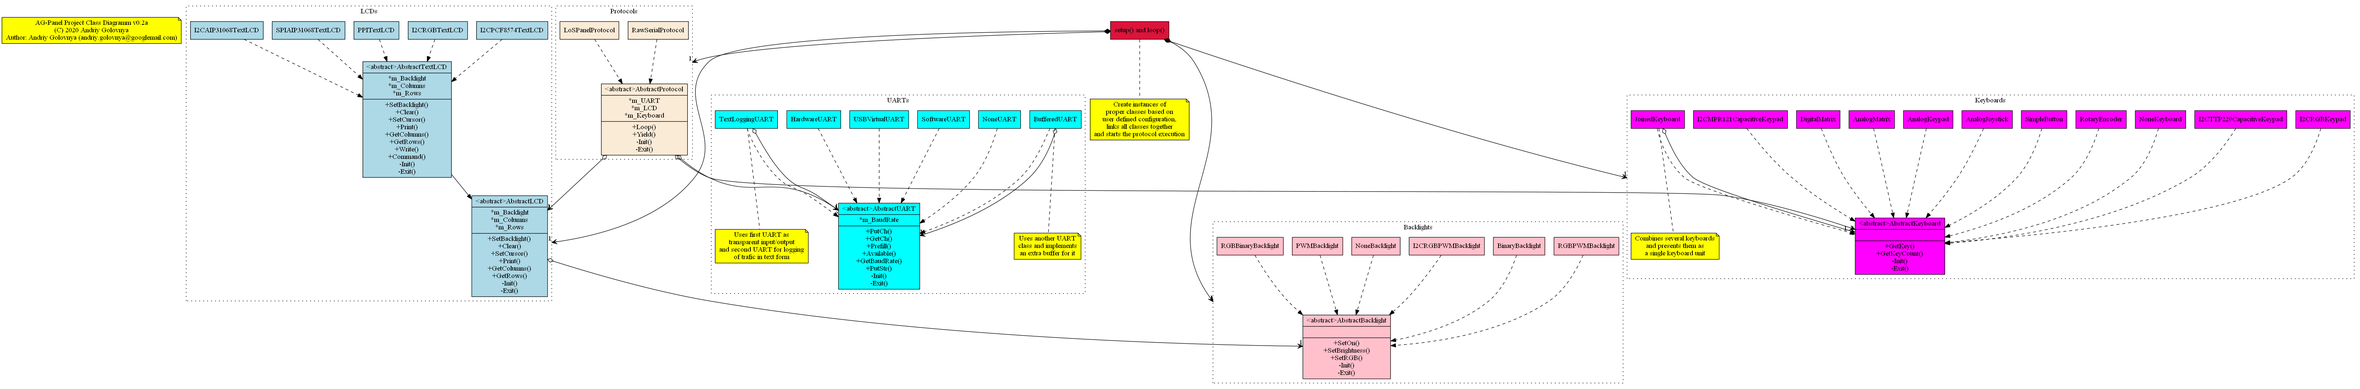
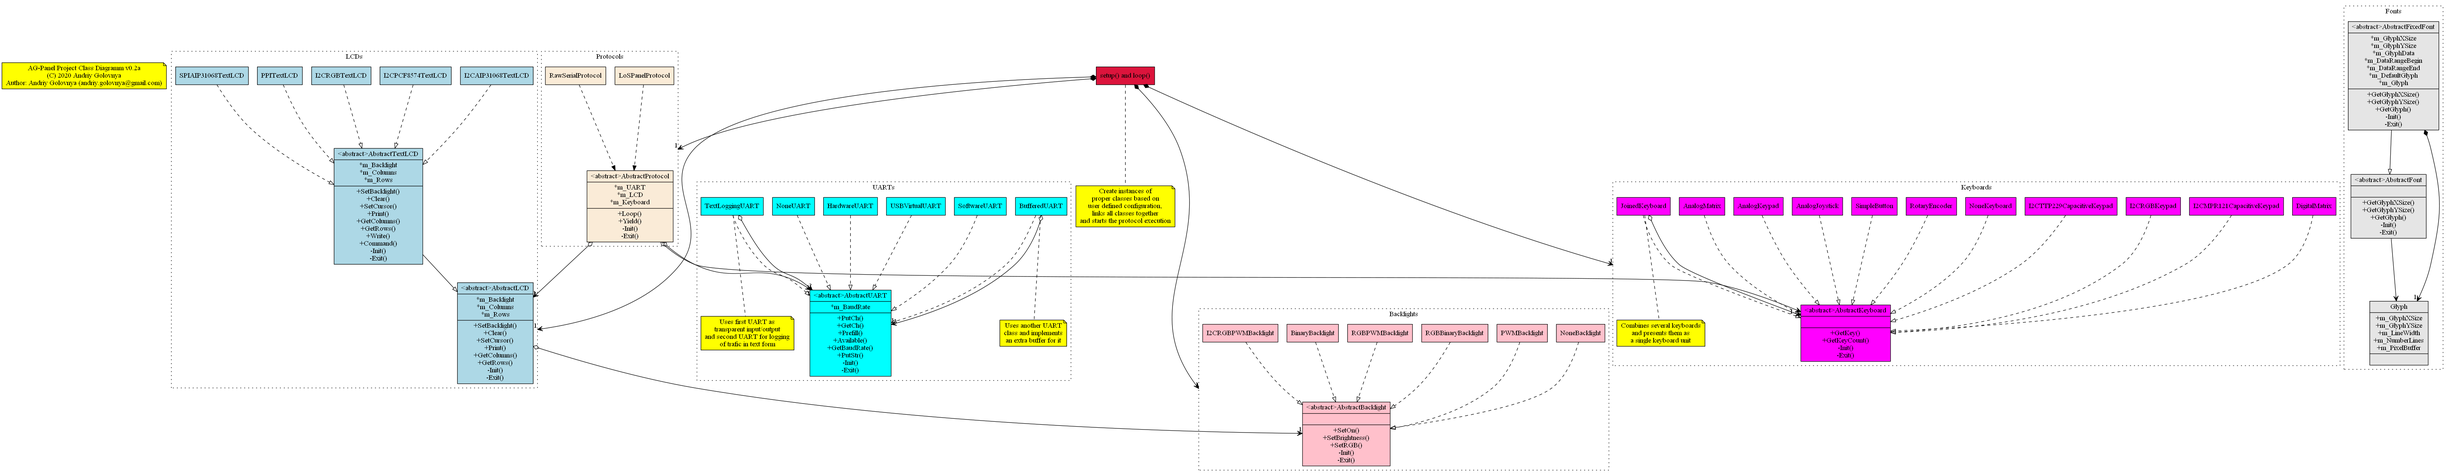
Add Font group to Dot UML diagram. Corrected realization arrows.

diff --git a/README.md b/README.md
@@ -71,7 +71,7 @@ Basic class diagram is shown below:
 
 ![UML diagram generated from DOT below](/img/class_diagram.png)
 
-[UML diagram online on magjac.com](http://magjac.com/graphviz-visual-editor/?dot=digraph%20class_diagram%20%7B%0A%0A%20%20%20%20node%20%5B%0A%20%20%20%20%20%20%20%20shape%20%3D%20record%0A%20%20%20%20%5D%0A%20%20%20%20compound%20%3D%20true%0A%0A%20%20%20%20%2F%2A%20Header%20with%20version%20information%20%2A%2F%0A%20%20%20%20main_note%20%5B%0A%20%20%20%20%20%20%20%20shape%20%3D%20note%0A%20%20%20%20%20%20%20%20style%20%3D%20filled%0A%20%20%20%20%20%20%20%20fillcolor%20%3D%20yellow%0A%20%20%20%20%20%20%20%20label%20%3D%20%22AG-Panel%20Project%20Class%20Diagramm%20v0.2a%5Cn%28C%29%202020%20Andriy%20Golovnya%5CnAuthor%3A%20Andriy%20Golovnya%20%28andriy.golovnya%40gmail.com%29%22%0A%20%20%20%20%5D%0A%0A%20%20%20%20%2F%2A%20Backlights%20group%20of%20classes%20%2A%2F%0A%20%20%20%20subgraph%20cluster_backlights%20%7B%0A%20%20%20%20%20%20%20%20node%20%5B%0A%20%20%20%20%20%20%20%20%20%20%20%20style%20%3D%20filled%0A%20%20%20%20%20%20%20%20%20%20%20%20fillcolor%20%3D%20%22pink%22%0A%20%20%20%20%20%20%20%20%5D%0A%20%20%20%20%20%20%20%20style%20%3D%20dotted%0A%20%20%20%20%20%20%20%20label%20%3D%20%22Backlights%22%0A%20%20%20%20%20%20%20%20AbstractBacklight%20%5B%0A%20%20%20%20%20%20%20%20%20%20%20%20label%20%3D%20%22%7B%5C%3Cabstract%5C%3EAbstractBacklight%7C%7C%2BSetOn%28%29%5Cn%2BSetBrightness%28%29%5Cn%2BSetRGB%28%29%5Cn-Init%28%29%5Cn-Exit%28%29%7D%22%0A%20%20%20%20%20%20%20%20%5D%0A%20%20%20%20%20%20%20%20BinaryBacklight%20-%3E%20AbstractBacklight%20%5Bstyle%20%3D%20dashed%5D%0A%20%20%20%20%20%20%20%20I2CRGBPWMBacklight%20-%3E%20AbstractBacklight%20%5Bstyle%20%3D%20dashed%5D%0A%20%20%20%20%20%20%20%20NoneBacklight%20-%3E%20AbstractBacklight%20%5Bstyle%20%3D%20dashed%5D%0A%20%20%20%20%20%20%20%20PWMBacklight%20-%3E%20AbstractBacklight%20%5Bstyle%20%3D%20dashed%5D%0A%20%20%20%20%20%20%20%20RGBBinaryBacklight%20-%3E%20AbstractBacklight%20%5Bstyle%20%3D%20dashed%5D%0A%20%20%20%20%20%20%20%20RGBPWMBacklight%20-%3E%20AbstractBacklight%20%5Bstyle%20%3D%20dashed%5D%0A%20%20%20%20%7D%0A%0A%20%20%20%20%2F%2A%20LCDs%20group%20of%20classes%20%2A%2F%0A%20%20%20%20subgraph%20cluster_lcds%20%7B%0A%20%20%20%20%20%20%20%20node%20%5B%0A%20%20%20%20%20%20%20%20%20%20%20%20style%20%3D%20filled%0A%20%20%20%20%20%20%20%20%20%20%20%20fillcolor%20%3D%20%22lightblue%22%0A%20%20%20%20%20%20%20%20%5D%0A%20%20%20%20%20%20%20%20style%20%3D%20dotted%0A%20%20%20%20%20%20%20%20label%20%3D%20%22LCDs%22%0A%20%20%20%20%20%20%20%20AbstractLCD%20%5B%0A%20%20%20%20%20%20%20%20%20%20%20%20label%20%3D%20%22%7B%5C%3Cabstract%5C%3EAbstractLCD%7C%2Am_Backlight%5Cn%2Am_Columns%5Cn%2Am_Rows%7C%2BSetBacklight%28%29%5Cn%2BClear%28%29%5Cn%2BSetCursor%28%29%5Cn%2BPrint%28%29%5Cn%2BGetColumns%28%29%5Cn%2BGetRows%28%29%5Cn-Init%28%29%5Cn-Exit%28%29%7D%22%0A%20%20%20%20%20%20%20%20%5D%0A%20%20%20%20%20%20%20%20AbstractTextLCD%20%5B%0A%20%20%20%20%20%20%20%20%20%20%20%20label%20%3D%20%22%7B%5C%3Cabstract%5C%3EAbstractTextLCD%7C%2Am_Backlight%5Cn%2Am_Columns%5Cn%2Am_Rows%7C%2BSetBacklight%28%29%5Cn%2BClear%28%29%5Cn%2BSetCursor%28%29%5Cn%2BPrint%28%29%5Cn%2BGetColumns%28%29%5Cn%2BGetRows%28%29%5Cn%2BWrite%28%29%5Cn%2BCommand%28%29%5Cn-Init%28%29%5Cn-Exit%28%29%7D%22%0A%20%20%20%20%20%20%20%20%5D%0A%20%20%20%20%20%20%20%20AbstractTextLCD%20-%3E%20AbstractLCD%20%5Bstyle%20%3D%20solid%5D%0A%20%20%20%20%20%20%20%20I2CAIP31068TextLCD%20-%3E%20AbstractTextLCD%20%5Bstyle%20%3D%20dashed%5D%0A%20%20%20%20%20%20%20%20I2CPCF8574TextLCD%20-%3E%20AbstractTextLCD%20%5Bstyle%20%3D%20dashed%5D%0A%20%20%20%20%20%20%20%20I2CRGBTextLCD%20-%3E%20AbstractTextLCD%20%5Bstyle%20%3D%20dashed%5D%0A%20%20%20%20%20%20%20%20PPITextLCD%20-%3E%20AbstractTextLCD%20%5Bstyle%20%3D%20dashed%5D%0A%20%20%20%20%20%20%20%20SPIAIP31068TextLCD%20-%3E%20AbstractTextLCD%20%5Bstyle%20%3D%20dashed%5D%0A%20%20%20%20%7D%0A%0A%20%20%20%20%2F%2A%20UARTSs%20group%20of%20classes%20%2A%2F%0A%20%20%20%20subgraph%20cluster_uarts%20%7B%0A%20%20%20%20%20%20%20%20node%20%5B%0A%20%20%20%20%20%20%20%20%20%20%20%20style%20%3D%20filled%0A%20%20%20%20%20%20%20%20%20%20%20%20fillcolor%20%3D%20%22cyan%22%0A%20%20%20%20%20%20%20%20%5D%0A%20%20%20%20%20%20%20%20style%20%3D%20dotted%0A%20%20%20%20%20%20%20%20label%20%3D%20%22UARTs%22%0A%20%20%20%20%20%20%20%20AbstractUART%20%5B%0A%20%20%20%20%20%20%20%20%20%20%20%20label%20%3D%20%22%7B%5C%3Cabstract%5C%3EAbstractUART%7C%2Am_BaudRate%7C%2BPutCh%28%29%5Cn%2BGetCh%28%29%5Cn%2BPrefill%28%29%5Cn%2BAvailable%28%29%5Cn%2BGetBaudRate%28%29%5Cn%2BPutStr%28%29%5Cn-Init%28%29%5Cn-Exit%28%29%7D%22%0A%20%20%20%20%20%20%20%20%5D%0A%20%20%20%20%20%20%20%20BufferedUART%20-%3E%20AbstractUART%20%5Bstyle%20%3D%20dashed%5D%0A%20%20%20%20%20%20%20%20BufferedUART%20-%3E%20AbstractUART%20%5Bstyle%20%3D%20solid%2C%20dir%20%3D%20both%2C%20arrowhead%20%3D%20open%2C%20arrowtail%20%3D%20ediamond%2C%20headlabel%20%3D%20%221%22%5D%0A%20%20%20%20%20%20%20%20BufferedUART%20-%3E%20note_for_BufferedUART%20%5Bstyle%20%3D%20dashed%2C%20dir%20%3D%20none%5D%0A%20%20%20%20%20%20%20%20HardwareUART%20-%3E%20AbstractUART%20%5Bstyle%20%3D%20dashed%5D%0A%20%20%20%20%20%20%20%20NoneUART%20-%3E%20AbstractUART%20%5Bstyle%20%3D%20dashed%5D%0A%20%20%20%20%20%20%20%20SoftwareUART%20-%3E%20AbstractUART%20%5Bstyle%20%3D%20dashed%5D%0A%20%20%20%20%20%20%20%20USBVirtualUART%20-%3E%20AbstractUART%20%5Bstyle%20%3D%20dashed%5D%0A%20%20%20%20%20%20%20%20TextLoggingUART%20-%3E%20AbstractUART%20%5Bstyle%20%3D%20dashed%5D%0A%20%20%20%20%20%20%20%20TextLoggingUART%20-%3E%20AbstractUART%20%5Bstyle%20%3D%20solid%2C%20dir%20%3D%20both%2C%20arrowhead%20%3D%20open%2C%20arrowtail%20%3D%20ediamond%2C%20headlabel%20%3D%20%222%22%5D%0A%20%20%20%20%20%20%20%20TextLoggingUART%20-%3E%20note_for_TextLoggingUART%20%5Bstyle%20%3D%20dashed%2C%20dir%20%3D%20none%5D%0A%20%20%20%20%20%20%20%20%2F%2A%20UARTs%20Notes%20%2A%2F%0A%20%20%20%20%20%20%20%20note_for_BufferedUART%20%5B%0A%20%20%20%20%20%20%20%20%20%20%20%20shape%20%3D%20note%0A%20%20%20%20%20%20%20%20%20%20%20%20style%20%3D%20filled%0A%20%20%20%20%20%20%20%20%20%20%20%20fillcolor%20%3D%20yellow%0A%20%20%20%20%20%20%20%20%20%20%20%20label%20%3D%20%22Uses%20another%20UART%5Cnclass%20and%20implements%5Cnan%20extra%20buffer%20for%20it%22%0A%20%20%20%20%20%20%20%20%5D%0A%20%20%20%20%20%20%20%20note_for_TextLoggingUART%20%5B%0A%20%20%20%20%20%20%20%20%20%20%20%20shape%20%3D%20note%0A%20%20%20%20%20%20%20%20%20%20%20%20style%20%3D%20filled%0A%20%20%20%20%20%20%20%20%20%20%20%20fillcolor%20%3D%20yellow%0A%20%20%20%20%20%20%20%20%20%20%20%20label%20%3D%20%22Uses%20first%20UART%20as%5Cntransparent%20input%2Foutput%5Cnand%20second%20UART%20for%20logging%5Cnof%20trafic%20in%20text%20form%22%0A%20%20%20%20%20%20%20%20%5D%0A%20%20%20%20%7D%0A%0A%20%20%20%20%2F%2A%20Keyboards%20group%20of%20classes%20%2A%2F%0A%20%20%20%20subgraph%20cluster_keyboards%20%7B%0A%20%20%20%20%20%20%20%20node%20%5B%0A%20%20%20%20%20%20%20%20%20%20%20%20style%20%3D%20filled%0A%20%20%20%20%20%20%20%20%20%20%20%20fillcolor%20%3D%20%22magenta%22%0A%20%20%20%20%20%20%20%20%5D%0A%20%20%20%20%20%20%20%20style%20%3D%20dotted%0A%20%20%20%20%20%20%20%20label%20%3D%20%22Keyboards%22%0A%20%20%20%20%20%20%20%20AbstractKeyboard%20%5B%0A%20%20%20%20%20%20%20%20%20%20%20%20label%20%3D%20%22%7B%5C%3Cabstract%5C%3EAbstractKeyboard%7C%7C%2BGetKey%28%29%5Cn%2BGetKeyCount%28%29%5Cn-Init%28%29%5Cn-Exit%28%29%7D%22%0A%20%20%20%20%20%20%20%20%5D%0A%20%20%20%20%20%20%20%20AnalogJoystick%20-%3E%20AbstractKeyboard%20%5Bstyle%20%3D%20dashed%5D%0A%20%20%20%20%20%20%20%20AnalogKeypad%20-%3E%20AbstractKeyboard%20%5Bstyle%20%3D%20dashed%5D%0A%20%20%20%20%20%20%20%20AnalogMatrix%20-%3E%20AbstractKeyboard%20%5Bstyle%20%3D%20dashed%5D%0A%20%20%20%20%20%20%20%20DigitalMatrix%20-%3E%20AbstractKeyboard%20%5Bstyle%20%3D%20dashed%5D%0A%20%20%20%20%20%20%20%20I2CMPR121CapacitiveKeypad%20-%3E%20AbstractKeyboard%20%5Bstyle%20%3D%20dashed%5D%0A%20%20%20%20%20%20%20%20I2CRGBKeypad%20-%3E%20AbstractKeyboard%20%5Bstyle%20%3D%20dashed%5D%0A%20%20%20%20%20%20%20%20I2CTTP229CapacitiveKeypad%20-%3E%20AbstractKeyboard%20%5Bstyle%20%3D%20dashed%5D%0A%20%20%20%20%20%20%20%20JoinedKeyboard%20-%3E%20AbstractKeyboard%20%5Bstyle%20%3D%20dashed%5D%0A%20%20%20%20%20%20%20%20JoinedKeyboard%20-%3E%20AbstractKeyboard%20%5Bstyle%20%3D%20solid%2C%20dir%20%3D%20both%2C%20arrowhead%20%3D%20open%2C%20arrowtail%20%3D%20ediamond%2C%20headlabel%20%3D%20%221..%2A%22%5D%0A%20%20%20%20%20%20%20%20JoinedKeyboard%20-%3E%20note_for_JoinedKeyboard%20%5Bstyle%20%3D%20dashed%2C%20dir%20%3D%20none%5D%0A%20%20%20%20%20%20%20%20NoneKeyboard%20-%3E%20AbstractKeyboard%20%5Bstyle%20%3D%20dashed%5D%0A%20%20%20%20%20%20%20%20RotaryEncoder%20-%3E%20AbstractKeyboard%20%5Bstyle%20%3D%20dashed%5D%0A%20%20%20%20%20%20%20%20SimpleButton%20-%3E%20AbstractKeyboard%20%5Bstyle%20%3D%20dashed%5D%0A%20%20%20%20%20%20%20%20%2F%2A%20Keybords%20notes%20%2A%2F%0A%20%20%20%20%20%20%20%20note_for_JoinedKeyboard%20%5B%0A%20%20%20%20%20%20%20%20%20%20%20%20shape%20%3D%20note%0A%20%20%20%20%20%20%20%20%20%20%20%20style%20%3D%20filled%0A%20%20%20%20%20%20%20%20%20%20%20%20fillcolor%20%3D%20yellow%0A%20%20%20%20%20%20%20%20%20%20%20%20label%20%3D%20%22Combines%20several%20keyboards%5Cnand%20presents%20them%20as%5Cna%20single%20keyboard%20unit%22%0A%20%20%20%20%20%20%20%20%5D%0A%20%20%20%20%7D%0A%0A%20%20%20%20%2F%2A%20Protocols%20group%20of%20classes%20%2A%2F%0A%20%20%20%20subgraph%20cluster_protocols%20%7B%0A%20%20%20%20%20%20%20%20node%20%5B%0A%20%20%20%20%20%20%20%20%20%20%20%20style%20%3D%20filled%0A%20%20%20%20%20%20%20%20%20%20%20%20fillcolor%20%3D%20%22antiquewhite%22%0A%20%20%20%20%20%20%20%20%5D%0A%20%20%20%20%20%20%20%20style%20%3D%20dotted%0A%20%20%20%20%20%20%20%20label%20%3D%20%22Protocols%22%0A%20%20%20%20%20%20%20%20AbstractProtocol%20%5B%0A%20%20%20%20%20%20%20%20%20%20%20%20label%20%3D%20%22%7B%5C%3Cabstract%5C%3EAbstractProtocol%7C%2Am_UART%5Cn%2Am_LCD%5Cn%2Am_Keyboard%7C%2BLoop%28%29%5Cn%2BYield%28%29%5Cn-Init%28%29%5Cn-Exit%28%29%7D%22%0A%20%20%20%20%20%20%20%20%5D%0A%20%20%20%20%20%20%20%20LoSPanelProtocol%20-%3E%20AbstractProtocol%20%5Bstyle%20%3D%20dashed%5D%0A%20%20%20%20%20%20%20%20RawSerialProtocol%20-%3E%20AbstractProtocol%20%5Bstyle%20%3D%20dashed%5D%0A%20%20%20%20%7D%0A%0A%20%20%20%20%2F%2A%20Relationships%20of%20main%20classes%20%2A%2F%0A%20%20%20%20AbstractLCD%20-%3E%20AbstractBacklight%20%5Bstyle%20%3D%20solid%2C%20dir%20%3D%20both%2C%20arrowhead%20%3D%20open%2C%20arrowtail%20%3D%20ediamond%2C%20headlabel%20%3D%20%221%22%5D%0A%20%20%20%20AbstractProtocol%20-%3E%20AbstractLCD%20%5Bstyle%20%3D%20solid%2C%20dir%20%3D%20both%2C%20arrowhead%20%3D%20open%2C%20arrowtail%20%3D%20ediamond%2C%20headlabel%20%3D%20%221%22%5D%0A%20%20%20%20AbstractProtocol%20-%3E%20AbstractUART%20%5Bstyle%20%3D%20solid%2C%20dir%20%3D%20both%2C%20arrowhead%20%3D%20open%2C%20arrowtail%20%3D%20ediamond%2C%20headlabel%20%3D%20%221%22%5D%0A%20%20%20%20AbstractProtocol%20-%3E%20AbstractKeyboard%20%5Bstyle%20%3D%20solid%2C%20dir%20%3D%20both%2C%20arrowhead%20%3D%20open%2C%20arrowtail%20%3D%20ediamond%2C%20headlabel%20%3D%20%221%22%5D%0A%0A%20%20%20%20main%20%5B%0A%20%20%20%20%20%20%20%20style%20%3D%20filled%0A%20%20%20%20%20%20%20%20fillcolor%20%3D%20%22crimson%22%0A%20%20%20%20%20%20%20%20label%20%3D%20%22setup%28%29%20and%20loop%28%29%22%0A%20%20%20%20%5D%0A%20%20%20%20main%20-%3E%20AbstractBacklight%20%5Blhead%20%3D%20cluster_backlights%2C%20style%20%3D%20solid%2C%20dir%20%3D%20both%2C%20arrowhead%20%3D%20open%2C%20arrowtail%20%3D%20diamond%2C%20headlabel%20%3D%20%221%22%5D%0A%20%20%20%20main%20-%3E%20AbstractLCD%20%5Blhead%20%3D%20cluster_lcds%2C%20style%20%3D%20solid%2C%20dir%20%3D%20both%2C%20arrowhead%20%3D%20open%2C%20arrowtail%20%3D%20diamond%2C%20headlabel%20%3D%20%221%22%5D%0A%20%20%20%20main%20-%3E%20AbstractKeyboard%20%5Blhead%20%3D%20cluster_keyboards%2C%20style%20%3D%20solid%2C%20dir%20%3D%20both%2C%20arrowhead%20%3D%20open%2C%20arrowtail%20%3D%20diamond%2C%20headlabel%20%3D%20%221%22%5D%0A%20%20%20%20main%20-%3E%20AbstractProtocol%20%5Blhead%20%3D%20cluster_protocols%2C%20style%20%3D%20solid%2C%20dir%20%3D%20both%2C%20arrowhead%20%3D%20open%2C%20arrowtail%20%3D%20diamond%2C%20headlabel%20%3D%20%221%22%5D%0A%0A%20%20%20%20main%20-%3E%20note_for_main%20%5Bstyle%20%3D%20dashed%2C%20dir%20%3D%20none%5D%0A%20%20%20%20note_for_main%20%5B%0A%20%20%20%20%20%20%20%20shape%20%3D%20note%0A%20%20%20%20%20%20%20%20style%20%3D%20filled%0A%20%20%20%20%20%20%20%20fillcolor%20%3D%20yellow%0A%20%20%20%20%20%20%20%20label%20%3D%20%22Create%20instances%20of%5Cnproper%20classes%20based%20on%5Cnuser%20defined%20configuration%2C%5Cnlinks%20all%20classes%20together%5Cnand%20starts%20the%20protocol%20execution%22%0A%20%20%20%20%5D%0A%7D%0A)
+[UML diagram online on magjac.com](http://magjac.com/graphviz-visual-editor/?dot=digraph%20class_diagram%20%7B%0A%0A%20%20%20%20node%20%5B%0A%20%20%20%20%20%20%20%20shape%20%3D%20record%0A%20%20%20%20%5D%0A%20%20%20%20compound%20%3D%20true%0A%0A%20%20%20%20%2F%2A%20Header%20with%20version%20information%20%2A%2F%0A%20%20%20%20main_note%20%5B%0A%20%20%20%20%20%20%20%20shape%20%3D%20note%0A%20%20%20%20%20%20%20%20style%20%3D%20filled%0A%20%20%20%20%20%20%20%20fillcolor%20%3D%20yellow%0A%20%20%20%20%20%20%20%20label%20%3D%20%22AG-Panel%20Project%20Class%20Diagramm%20v0.2a%5Cn%28C%29%202020%20Andriy%20Golovnya%5CnAuthor%3A%20Andriy%20Golovnya%20%28andriy.golovnya%40gmail.com%29%22%0A%20%20%20%20%5D%0A%0A%20%20%20%20%2F%2A%20Backlights%20group%20of%20classes%20%2A%2F%0A%20%20%20%20subgraph%20cluster_backlights%20%7B%0A%20%20%20%20%20%20%20%20node%20%5B%0A%20%20%20%20%20%20%20%20%20%20%20%20style%20%3D%20filled%0A%20%20%20%20%20%20%20%20%20%20%20%20fillcolor%20%3D%20%22pink%22%0A%20%20%20%20%20%20%20%20%5D%0A%20%20%20%20%20%20%20%20style%20%3D%20dotted%0A%20%20%20%20%20%20%20%20label%20%3D%20%22Backlights%22%0A%20%20%20%20%20%20%20%20AbstractBacklight%20%5B%0A%20%20%20%20%20%20%20%20%20%20%20%20label%20%3D%20%22%7B%5C%3Cabstract%5C%3EAbstractBacklight%7C%7C%2BSetOn%28%29%5Cn%2BSetBrightness%28%29%5Cn%2BSetRGB%28%29%5Cn-Init%28%29%5Cn-Exit%28%29%7D%22%0A%20%20%20%20%20%20%20%20%5D%0A%20%20%20%20%20%20%20%20BinaryBacklight%20-%3E%20AbstractBacklight%20%5Bstyle%20%3D%20dashed%2C%20arrowhead%20%3D%20onormal%5D%0A%20%20%20%20%20%20%20%20I2CRGBPWMBacklight%20-%3E%20AbstractBacklight%20%5Bstyle%20%3D%20dashed%2C%20arrowhead%20%3D%20onormal%5D%0A%20%20%20%20%20%20%20%20NoneBacklight%20-%3E%20AbstractBacklight%20%5Bstyle%20%3D%20dashed%2C%20arrowhead%20%3D%20onormal%5D%0A%20%20%20%20%20%20%20%20PWMBacklight%20-%3E%20AbstractBacklight%20%5Bstyle%20%3D%20dashed%2C%20arrowhead%20%3D%20onormal%5D%0A%20%20%20%20%20%20%20%20RGBBinaryBacklight%20-%3E%20AbstractBacklight%20%5Bstyle%20%3D%20dashed%2C%20arrowhead%20%3D%20onormal%5D%0A%20%20%20%20%20%20%20%20RGBPWMBacklight%20-%3E%20AbstractBacklight%20%5Bstyle%20%3D%20dashed%2C%20arrowhead%20%3D%20onormal%5D%0A%20%20%20%20%7D%0A%0A%20%20%20%20%2F%2A%20Fonts%20group%20of%20classes%20%2A%2F%0A%20%20%20%20subgraph%20cluster_fonts%20%7B%0A%20%20%20%20%20%20%20%20node%20%5B%0A%20%20%20%20%20%20%20%20%20%20%20%20style%20%3D%20filled%0A%20%20%20%20%20%20%20%20%20%20%20%20fillcolor%20%3D%20%22gray90%22%0A%20%20%20%20%20%20%20%20%5D%0A%20%20%20%20%20%20%20%20style%20%3D%20dotted%0A%20%20%20%20%20%20%20%20label%20%3D%20%22Fonts%22%0A%20%20%20%20%20%20%20%20Glyph%20%5B%0A%20%20%20%20%20%20%20%20%20%20%20%20label%20%3D%20%22%7BGlyph%7C%2Bm_GlyphXSize%5Cn%2Bm_GlyphYSize%5Cn%2Bm_LineWidth%5Cn%2Bm_NumberLines%5Cn%2Bm_PixelBuffer%7C%7D%22%0A%20%20%20%20%20%20%20%20%5D%0A%20%20%20%20%20%20%20%20AbstractFont%20%5B%0A%20%20%20%20%20%20%20%20%20%20%20%20label%20%3D%20%22%7B%5C%3Cabstract%5C%3EAbstractFont%7C%7C%2BGetGlyphXSize%28%29%5Cn%2BGetGlyphYSize%28%29%5Cn%2BGetGlyph%28%29%5Cn-Init%28%29%5Cn-Exit%28%29%7D%22%0A%20%20%20%20%20%20%20%20%5D%0A%20%20%20%20%20%20%20%20AbstractFixedFont%20%5B%0A%20%20%20%20%20%20%20%20%20%20%20%20label%20%3D%20%22%7B%5C%3Cabstract%5C%3EAbstractFixedFont%7C%2Am_GlyphXSize%5Cn%2Am_GlyphYSize%5Cn%2Am_GlyphData%5Cn%2Am_DataRangeBegin%5Cn%2Am_DataRangeEnd%5Cn%2Am_DefaultGlyph%5Cn%2Am_Glyph%7C%2BGetGlyphXSize%28%29%5Cn%2BGetGlyphYSize%28%29%5Cn%2BGetGlyph%28%29%5Cn-Init%28%29%5Cn-Exit%28%29%7D%22%0A%20%20%20%20%20%20%20%20%5D%0A%20%20%20%20%20%20%20%20AbstractFont%20-%3E%20Glyph%20%5Barrowhead%20%3D%20open%5D%0A%20%20%20%20%20%20%20%20AbstractFixedFont%20-%3E%20AbstractFont%20%5Bstyle%20%3D%20solid%2C%20arrowhead%20%3D%20onormal%5D%0A%20%20%20%20%20%20%20%20AbstractFixedFont%20-%3E%20Glyph%20%5Bstyle%20%3D%20solid%2C%20dir%20%3D%20both%2C%20arrowhead%20%3D%20open%2C%20arrowtail%20%3D%20diamond%2C%20headlabel%20%3D%20%221%22%5D%0A%20%20%20%20%20%20%20%20%2F%2FSomeFixedFont%20-%3E%20AbstractFixedFont%20%5Bstyle%20%3D%20dashed%2C%20arrowhead%20%3D%20onormal%5D%0A%20%20%20%20%7D%0A%0A%20%20%20%20%2F%2A%20LCDs%20group%20of%20classes%20%2A%2F%0A%20%20%20%20subgraph%20cluster_lcds%20%7B%0A%20%20%20%20%20%20%20%20node%20%5B%0A%20%20%20%20%20%20%20%20%20%20%20%20style%20%3D%20filled%0A%20%20%20%20%20%20%20%20%20%20%20%20fillcolor%20%3D%20%22lightblue%22%0A%20%20%20%20%20%20%20%20%5D%0A%20%20%20%20%20%20%20%20style%20%3D%20dotted%0A%20%20%20%20%20%20%20%20label%20%3D%20%22LCDs%22%0A%20%20%20%20%20%20%20%20AbstractLCD%20%5B%0A%20%20%20%20%20%20%20%20%20%20%20%20label%20%3D%20%22%7B%5C%3Cabstract%5C%3EAbstractLCD%7C%2Am_Backlight%5Cn%2Am_Columns%5Cn%2Am_Rows%7C%2BSetBacklight%28%29%5Cn%2BClear%28%29%5Cn%2BSetCursor%28%29%5Cn%2BPrint%28%29%5Cn%2BGetColumns%28%29%5Cn%2BGetRows%28%29%5Cn-Init%28%29%5Cn-Exit%28%29%7D%22%0A%20%20%20%20%20%20%20%20%5D%0A%20%20%20%20%20%20%20%20AbstractTextLCD%20%5B%0A%20%20%20%20%20%20%20%20%20%20%20%20label%20%3D%20%22%7B%5C%3Cabstract%5C%3EAbstractTextLCD%7C%2Am_Backlight%5Cn%2Am_Columns%5Cn%2Am_Rows%7C%2BSetBacklight%28%29%5Cn%2BClear%28%29%5Cn%2BSetCursor%28%29%5Cn%2BPrint%28%29%5Cn%2BGetColumns%28%29%5Cn%2BGetRows%28%29%5Cn%2BWrite%28%29%5Cn%2BCommand%28%29%5Cn-Init%28%29%5Cn-Exit%28%29%7D%22%0A%20%20%20%20%20%20%20%20%5D%0A%20%20%20%20%20%20%20%20AbstractTextLCD%20-%3E%20AbstractLCD%20%5Bstyle%20%3D%20solid%2C%20arrowhead%20%3D%20onormal%5D%0A%20%20%20%20%20%20%20%20I2CAIP31068TextLCD%20-%3E%20AbstractTextLCD%20%5Bstyle%20%3D%20dashed%2C%20arrowhead%20%3D%20onormal%5D%0A%20%20%20%20%20%20%20%20I2CPCF8574TextLCD%20-%3E%20AbstractTextLCD%20%5Bstyle%20%3D%20dashed%2C%20arrowhead%20%3D%20onormal%5D%0A%20%20%20%20%20%20%20%20I2CRGBTextLCD%20-%3E%20AbstractTextLCD%20%5Bstyle%20%3D%20dashed%2C%20arrowhead%20%3D%20onormal%5D%0A%20%20%20%20%20%20%20%20PPITextLCD%20-%3E%20AbstractTextLCD%20%5Bstyle%20%3D%20dashed%2C%20arrowhead%20%3D%20onormal%5D%0A%20%20%20%20%20%20%20%20SPIAIP31068TextLCD%20-%3E%20AbstractTextLCD%20%5Bstyle%20%3D%20dashed%2C%20arrowhead%20%3D%20onormal%5D%0A%20%20%20%20%7D%0A%0A%20%20%20%20%2F%2A%20UARTSs%20group%20of%20classes%20%2A%2F%0A%20%20%20%20subgraph%20cluster_uarts%20%7B%0A%20%20%20%20%20%20%20%20node%20%5B%0A%20%20%20%20%20%20%20%20%20%20%20%20style%20%3D%20filled%0A%20%20%20%20%20%20%20%20%20%20%20%20fillcolor%20%3D%20%22cyan%22%0A%20%20%20%20%20%20%20%20%5D%0A%20%20%20%20%20%20%20%20style%20%3D%20dotted%0A%20%20%20%20%20%20%20%20label%20%3D%20%22UARTs%22%0A%20%20%20%20%20%20%20%20AbstractUART%20%5B%0A%20%20%20%20%20%20%20%20%20%20%20%20label%20%3D%20%22%7B%5C%3Cabstract%5C%3EAbstractUART%7C%2Am_BaudRate%7C%2BPutCh%28%29%5Cn%2BGetCh%28%29%5Cn%2BPrefill%28%29%5Cn%2BAvailable%28%29%5Cn%2BGetBaudRate%28%29%5Cn%2BPutStr%28%29%5Cn-Init%28%29%5Cn-Exit%28%29%7D%22%0A%20%20%20%20%20%20%20%20%5D%0A%20%20%20%20%20%20%20%20BufferedUART%20-%3E%20AbstractUART%20%5Bstyle%20%3D%20dashed%2C%20arrowhead%20%3D%20onormal%5D%0A%20%20%20%20%20%20%20%20BufferedUART%20-%3E%20AbstractUART%20%5Bstyle%20%3D%20solid%2C%20dir%20%3D%20both%2C%20arrowhead%20%3D%20open%2C%20arrowtail%20%3D%20ediamond%2C%20headlabel%20%3D%20%221%22%5D%0A%20%20%20%20%20%20%20%20BufferedUART%20-%3E%20note_for_BufferedUART%20%5Bstyle%20%3D%20dashed%2C%20dir%20%3D%20none%5D%0A%20%20%20%20%20%20%20%20HardwareUART%20-%3E%20AbstractUART%20%5Bstyle%20%3D%20dashed%2C%20arrowhead%20%3D%20onormal%5D%0A%20%20%20%20%20%20%20%20NoneUART%20-%3E%20AbstractUART%20%5Bstyle%20%3D%20dashed%2C%20arrowhead%20%3D%20onormal%5D%0A%20%20%20%20%20%20%20%20SoftwareUART%20-%3E%20AbstractUART%20%5Bstyle%20%3D%20dashed%2C%20arrowhead%20%3D%20onormal%5D%0A%20%20%20%20%20%20%20%20USBVirtualUART%20-%3E%20AbstractUART%20%5Bstyle%20%3D%20dashed%2C%20arrowhead%20%3D%20onormal%5D%0A%20%20%20%20%20%20%20%20TextLoggingUART%20-%3E%20AbstractUART%20%5Bstyle%20%3D%20dashed%2C%20arrowhead%20%3D%20onormal%5D%0A%20%20%20%20%20%20%20%20TextLoggingUART%20-%3E%20AbstractUART%20%5Bstyle%20%3D%20solid%2C%20dir%20%3D%20both%2C%20arrowhead%20%3D%20open%2C%20arrowtail%20%3D%20ediamond%2C%20headlabel%20%3D%20%222%22%5D%0A%20%20%20%20%20%20%20%20TextLoggingUART%20-%3E%20note_for_TextLoggingUART%20%5Bstyle%20%3D%20dashed%2C%20dir%20%3D%20none%5D%0A%20%20%20%20%20%20%20%20%2F%2A%20UARTs%20Notes%20%2A%2F%0A%20%20%20%20%20%20%20%20note_for_BufferedUART%20%5B%0A%20%20%20%20%20%20%20%20%20%20%20%20shape%20%3D%20note%0A%20%20%20%20%20%20%20%20%20%20%20%20style%20%3D%20filled%0A%20%20%20%20%20%20%20%20%20%20%20%20fillcolor%20%3D%20yellow%0A%20%20%20%20%20%20%20%20%20%20%20%20label%20%3D%20%22Uses%20another%20UART%5Cnclass%20and%20implements%5Cnan%20extra%20buffer%20for%20it%22%0A%20%20%20%20%20%20%20%20%5D%0A%20%20%20%20%20%20%20%20note_for_TextLoggingUART%20%5B%0A%20%20%20%20%20%20%20%20%20%20%20%20shape%20%3D%20note%0A%20%20%20%20%20%20%20%20%20%20%20%20style%20%3D%20filled%0A%20%20%20%20%20%20%20%20%20%20%20%20fillcolor%20%3D%20yellow%0A%20%20%20%20%20%20%20%20%20%20%20%20label%20%3D%20%22Uses%20first%20UART%20as%5Cntransparent%20input%2Foutput%5Cnand%20second%20UART%20for%20logging%5Cnof%20trafic%20in%20text%20form%22%0A%20%20%20%20%20%20%20%20%5D%0A%20%20%20%20%7D%0A%0A%20%20%20%20%2F%2A%20Keyboards%20group%20of%20classes%20%2A%2F%0A%20%20%20%20subgraph%20cluster_keyboards%20%7B%0A%20%20%20%20%20%20%20%20node%20%5B%0A%20%20%20%20%20%20%20%20%20%20%20%20style%20%3D%20filled%0A%20%20%20%20%20%20%20%20%20%20%20%20fillcolor%20%3D%20%22magenta%22%0A%20%20%20%20%20%20%20%20%5D%0A%20%20%20%20%20%20%20%20style%20%3D%20dotted%0A%20%20%20%20%20%20%20%20label%20%3D%20%22Keyboards%22%0A%20%20%20%20%20%20%20%20AbstractKeyboard%20%5B%0A%20%20%20%20%20%20%20%20%20%20%20%20label%20%3D%20%22%7B%5C%3Cabstract%5C%3EAbstractKeyboard%7C%7C%2BGetKey%28%29%5Cn%2BGetKeyCount%28%29%5Cn-Init%28%29%5Cn-Exit%28%29%7D%22%0A%20%20%20%20%20%20%20%20%5D%0A%20%20%20%20%20%20%20%20AnalogJoystick%20-%3E%20AbstractKeyboard%20%5Bstyle%20%3D%20dashed%2C%20arrowhead%20%3D%20onormal%5D%0A%20%20%20%20%20%20%20%20AnalogKeypad%20-%3E%20AbstractKeyboard%20%5Bstyle%20%3D%20dashed%2C%20arrowhead%20%3D%20onormal%5D%0A%20%20%20%20%20%20%20%20AnalogMatrix%20-%3E%20AbstractKeyboard%20%5Bstyle%20%3D%20dashed%2C%20arrowhead%20%3D%20onormal%5D%0A%20%20%20%20%20%20%20%20DigitalMatrix%20-%3E%20AbstractKeyboard%20%5Bstyle%20%3D%20dashed%2C%20arrowhead%20%3D%20onormal%5D%0A%20%20%20%20%20%20%20%20I2CMPR121CapacitiveKeypad%20-%3E%20AbstractKeyboard%20%5Bstyle%20%3D%20dashed%2C%20arrowhead%20%3D%20onormal%5D%0A%20%20%20%20%20%20%20%20I2CRGBKeypad%20-%3E%20AbstractKeyboard%20%5Bstyle%20%3D%20dashed%2C%20arrowhead%20%3D%20onormal%5D%0A%20%20%20%20%20%20%20%20I2CTTP229CapacitiveKeypad%20-%3E%20AbstractKeyboard%20%5Bstyle%20%3D%20dashed%2C%20arrowhead%20%3D%20onormal%5D%0A%20%20%20%20%20%20%20%20JoinedKeyboard%20-%3E%20AbstractKeyboard%20%5Bstyle%20%3D%20dashed%2C%20arrowhead%20%3D%20onormal%5D%0A%20%20%20%20%20%20%20%20JoinedKeyboard%20-%3E%20AbstractKeyboard%20%5Bstyle%20%3D%20solid%2C%20dir%20%3D%20both%2C%20arrowhead%20%3D%20open%2C%20arrowtail%20%3D%20ediamond%2C%20headlabel%20%3D%20%221..%2A%22%5D%0A%20%20%20%20%20%20%20%20JoinedKeyboard%20-%3E%20note_for_JoinedKeyboard%20%5Bstyle%20%3D%20dashed%2C%20dir%20%3D%20none%5D%0A%20%20%20%20%20%20%20%20NoneKeyboard%20-%3E%20AbstractKeyboard%20%5Bstyle%20%3D%20dashed%2C%20arrowhead%20%3D%20onormal%5D%0A%20%20%20%20%20%20%20%20RotaryEncoder%20-%3E%20AbstractKeyboard%20%5Bstyle%20%3D%20dashed%2C%20arrowhead%20%3D%20onormal%5D%0A%20%20%20%20%20%20%20%20SimpleButton%20-%3E%20AbstractKeyboard%20%5Bstyle%20%3D%20dashed%2C%20arrowhead%20%3D%20onormal%5D%0A%20%20%20%20%20%20%20%20%2F%2A%20Keybords%20notes%20%2A%2F%0A%20%20%20%20%20%20%20%20note_for_JoinedKeyboard%20%5B%0A%20%20%20%20%20%20%20%20%20%20%20%20shape%20%3D%20note%0A%20%20%20%20%20%20%20%20%20%20%20%20style%20%3D%20filled%0A%20%20%20%20%20%20%20%20%20%20%20%20fillcolor%20%3D%20yellow%0A%20%20%20%20%20%20%20%20%20%20%20%20label%20%3D%20%22Combines%20several%20keyboards%5Cnand%20presents%20them%20as%5Cna%20single%20keyboard%20unit%22%0A%20%20%20%20%20%20%20%20%5D%0A%20%20%20%20%7D%0A%0A%20%20%20%20%2F%2A%20Protocols%20group%20of%20classes%20%2A%2F%0A%20%20%20%20subgraph%20cluster_protocols%20%7B%0A%20%20%20%20%20%20%20%20node%20%5B%0A%20%20%20%20%20%20%20%20%20%20%20%20style%20%3D%20filled%0A%20%20%20%20%20%20%20%20%20%20%20%20fillcolor%20%3D%20%22antiquewhite%22%0A%20%20%20%20%20%20%20%20%5D%0A%20%20%20%20%20%20%20%20style%20%3D%20dotted%0A%20%20%20%20%20%20%20%20label%20%3D%20%22Protocols%22%0A%20%20%20%20%20%20%20%20AbstractProtocol%20%5B%0A%20%20%20%20%20%20%20%20%20%20%20%20label%20%3D%20%22%7B%5C%3Cabstract%5C%3EAbstractProtocol%7C%2Am_UART%5Cn%2Am_LCD%5Cn%2Am_Keyboard%7C%2BLoop%28%29%5Cn%2BYield%28%29%5Cn-Init%28%29%5Cn-Exit%28%29%7D%22%0A%20%20%20%20%20%20%20%20%5D%0A%20%20%20%20%20%20%20%20LoSPanelProtocol%20-%3E%20AbstractProtocol%20%5Bstyle%20%3D%20dashed%5D%0A%20%20%20%20%20%20%20%20RawSerialProtocol%20-%3E%20AbstractProtocol%20%5Bstyle%20%3D%20dashed%5D%0A%20%20%20%20%7D%0A%0A%20%20%20%20%2F%2A%20Relationships%20of%20main%20classes%20%2A%2F%0A%20%20%20%20AbstractLCD%20-%3E%20AbstractBacklight%20%5Bstyle%20%3D%20solid%2C%20dir%20%3D%20both%2C%20arrowhead%20%3D%20open%2C%20arrowtail%20%3D%20ediamond%2C%20headlabel%20%3D%20%221%22%5D%0A%20%20%20%20AbstractProtocol%20-%3E%20AbstractLCD%20%5Bstyle%20%3D%20solid%2C%20dir%20%3D%20both%2C%20arrowhead%20%3D%20open%2C%20arrowtail%20%3D%20ediamond%2C%20headlabel%20%3D%20%221%22%5D%0A%20%20%20%20AbstractProtocol%20-%3E%20AbstractUART%20%5Bstyle%20%3D%20solid%2C%20dir%20%3D%20both%2C%20arrowhead%20%3D%20open%2C%20arrowtail%20%3D%20ediamond%2C%20headlabel%20%3D%20%221%22%5D%0A%20%20%20%20AbstractProtocol%20-%3E%20AbstractKeyboard%20%5Bstyle%20%3D%20solid%2C%20dir%20%3D%20both%2C%20arrowhead%20%3D%20open%2C%20arrowtail%20%3D%20ediamond%2C%20headlabel%20%3D%20%221%22%5D%0A%0A%20%20%20%20main%20%5B%0A%20%20%20%20%20%20%20%20style%20%3D%20filled%0A%20%20%20%20%20%20%20%20fillcolor%20%3D%20%22crimson%22%0A%20%20%20%20%20%20%20%20label%20%3D%20%22setup%28%29%20and%20loop%28%29%22%0A%20%20%20%20%5D%0A%20%20%20%20main%20-%3E%20AbstractBacklight%20%5Blhead%20%3D%20cluster_backlights%2C%20style%20%3D%20solid%2C%20dir%20%3D%20both%2C%20arrowhead%20%3D%20open%2C%20arrowtail%20%3D%20diamond%2C%20headlabel%20%3D%20%221%22%5D%0A%20%20%20%20main%20-%3E%20AbstractLCD%20%5Blhead%20%3D%20cluster_lcds%2C%20style%20%3D%20solid%2C%20dir%20%3D%20both%2C%20arrowhead%20%3D%20open%2C%20arrowtail%20%3D%20diamond%2C%20headlabel%20%3D%20%221%22%5D%0A%20%20%20%20main%20-%3E%20AbstractKeyboard%20%5Blhead%20%3D%20cluster_keyboards%2C%20style%20%3D%20solid%2C%20dir%20%3D%20both%2C%20arrowhead%20%3D%20open%2C%20arrowtail%20%3D%20diamond%2C%20headlabel%20%3D%20%221%22%5D%0A%20%20%20%20main%20-%3E%20AbstractProtocol%20%5Blhead%20%3D%20cluster_protocols%2C%20style%20%3D%20solid%2C%20dir%20%3D%20both%2C%20arrowhead%20%3D%20open%2C%20arrowtail%20%3D%20diamond%2C%20headlabel%20%3D%20%221%22%5D%0A%0A%20%20%20%20main%20-%3E%20note_for_main%20%5Bstyle%20%3D%20dashed%2C%20dir%20%3D%20none%5D%0A%20%20%20%20note_for_main%20%5B%0A%20%20%20%20%20%20%20%20shape%20%3D%20note%0A%20%20%20%20%20%20%20%20style%20%3D%20filled%0A%20%20%20%20%20%20%20%20fillcolor%20%3D%20yellow%0A%20%20%20%20%20%20%20%20label%20%3D%20%22Create%20instances%20of%5Cnproper%20classes%20based%20on%5Cnuser%20defined%20configuration%2C%5Cnlinks%20all%20classes%20together%5Cnand%20starts%20the%20protocol%20execution%22%0A%20%20%20%20%5D%0A%7D%0A)
 
 The code of ag-panel can be compiled with Arduino IDE or PlatformIO (Atom or VS Code).
 Following libraries might be required:
